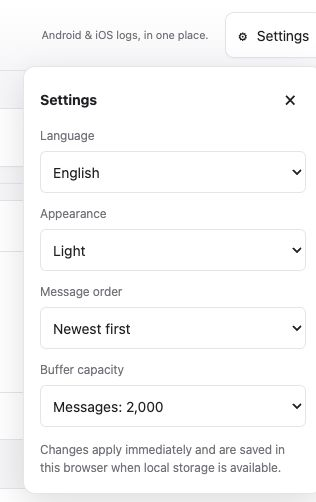
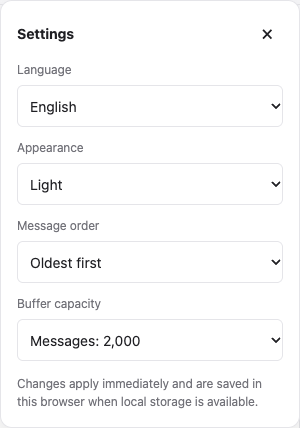
docs: update WebView capture guide and application screenshots
Document Android and iOS inspection setup, combined sources, per-source filtering, timestamps, and troubleshooting. Refresh viewer, details, and settings screenshots and add an iOS WebView console example.

diff --git a/README.md b/README.md
@@ -2,10 +2,10 @@
 
 # Über Device Log
 
-**Android Logcat & iOS syslog, in one place.**
+**Android Logcat, iOS syslog & WebView consoles, in one place.**
 
-A local browser-based **Android Logcat and iOS syslog viewer**, with setup guidance
-for **macOS, Windows and Linux**. Connect a phone, find the message that matters,
+A local browser-based **Android Logcat, iOS syslog and WebView console viewer**,
+with setup guidance for **macOS, Windows and Linux**. Connect a phone, find the message that matters,
 and share the relevant entries as plain text or structured JSON.
 
 [Website](https://pmelch.github.io/uber-device-log/) · [Get started](#get-started) · [Connect a device](#connect-a-device) · [Using the viewer](#using-the-viewer) · [Documentation](#documentation)
@@ -14,7 +14,7 @@ and share the relevant entries as plain text or structured JSON.
 
 </div>
 
-![Über Device Log showing Android messages, severity filters and formatted exceptions](docs/images/log-viewer.png)
+![Über Device Log combining Android Logcat and WebView console messages with independent source filters](docs/images/log-viewer.png)
 
 *Actual app screenshots with fictional demo logs.*
 
@@ -119,18 +119,45 @@ Windows needs compatible Apple mobile-device support. macOS is the primary
 validation environment; Windows/Linux and physical-device capture still need
 validation. No Appium server is required. iOS simulators are not listed.
 
+### Android WebView consoles
+
+Inspectable WebViews appear beneath their Android device with their page title
+and URL. Select one to capture JavaScript console calls and uncaught exceptions,
+or combine it with native Logcat using the source checkboxes above the stream.
+Multiple WebViews can be included from the same device.
+
+Use the Android setup above and keep the app and its WebView open. The app must
+enable WebView debugging with `WebView.setWebContentsDebuggingEnabled(true)`;
+the viewer cannot enable it for you. Refresh the device list if a new WebView
+does not appear. Capture uses ADB and Chrome DevTools Protocol; no separate
+debugging proxy or browser extension is required.
+
+### iPhone and iPad WebView consoles
+
+Inspectable iOS WebViews appear beneath their device with the same selection,
+combined capture and per-source filtering controls as Android WebViews.
+
+Unlock and trust the connected device, keep the app open, and enable Safari's
+**Web Inspector** on the device. The app must expose its WKWebView for inspection
+(`isInspectable = true` on iOS 16.4 and later). The viewer cannot enable inspection
+for an app that has not opted in. Capture uses the existing USB WebInspector
+service; no additional proxy, browser extension or Appium server is required.
+
 ## Using the viewer
 
 ### Find a message
 
-Type in **Filter logs** to search message text and metadata. Use Android's severity
-buttons to narrow the view further. Change **Message order** in **Settings** to show newest entries
-first or last. Scrolling away stops automatic following; **Follow latest** resumes it.
+Type in a source's search field to search message text and metadata. Use Android
+and WebView severity buttons to narrow the view further. Native iOS syslog does
+not provide severity filtering. Change **Message order** in **Settings** to show
+newest entries first or last. Scrolling away stops automatic following;
+**Follow latest** resumes it.
 
 Choose **Fuzzy search** for typo-tolerant matching or **Literal search** for a
 case-insensitive, contiguous phrase in a single message or metadata field.
 Literal search treats punctuation as text, without regular expressions.
-For Android, **Exact Android tag** matches the entire tag with case sensitivity;
+For native Android logs, expand **Advanced filters**. **Exact Android tag** matches
+the entire tag with case sensitivity;
 **Exact Android PID** matches the numeric process ID. Combine these with search
 and severity filters. Invalid PIDs show a validation message and no results.
 **Reset filters** clears search, tag, PID and severity restrictions while keeping
@@ -140,11 +167,26 @@ and Copy/Save use the displayed filtered entries.
 ### Combine device and WebView logs
 
 Select a device or WebView, then enable the desired sources above the stream.
-Each source has independent search and severity controls; native Android logs
-also have exact tag and PID filters. Entries merge by timestamp and show the
+The source checkboxes combine native logs and one or more WebView consoles from
+the selected device. Each source has independent search and severity controls
+(except native iOS syslog); native Android logs also have exact tag and PID
+filters. Entries merge by timestamp and show the
 platform or WebView icon beside their source. A stopped WebView does not stop
 the other sources. Re-enabling a source replaces its previous buffer with the
 new capture, since collectors can replay their history.
+
+Selecting a device or WebView in the device list starts a fresh view with that
+source alone. Use the checkboxes to add other sources. Only the parent device
+is remembered across reloads; WebView page targets are temporary.
+
+WebView console timestamps come from CDP on Android and WebKit on iOS, with host
+receipt time as a fallback. Native iOS syslog uses host receipt time, so merged
+timestamps do not guarantee the exact causal order of device events.
+
+![An iPhone WebView console showing JavaScript messages, warnings and an exception](docs/images/webview-console.png)
+
+WebView capture reads console output. It does not offer JavaScript execution,
+expandable object inspection, a DOM inspector or a network panel.
 
 Exports retain source identity: plain text prefixes each entry with its source
 name, and structured JSON uses schema version 2 with source metadata per entry.
@@ -159,7 +201,7 @@ The card offers **Details**, **Original**, and **JSON** views. Click the info bu
 again or use **×** to close it. Scrolling the list or selecting a row also closes it.
 Explanations describe patterns in the message; they are not definitive diagnoses.
 
-![Message details showing the file path, exception, error code and reported reason for a failed read](docs/images/message-details.png)
+![Message details showing WebView exception metadata, interpretation and tabs for the original text and JSON](docs/images/message-details.png)
 
 ### Copy or save
 
@@ -178,7 +220,7 @@ Exports preserve whole entries, metadata and multiline messages in display order
 
 ### Choose your language
 
-**English · Español · Deutsch · Français · Italiano · 简体中文**
+**English · Español · Deutsch · Français · Italiano · 日本語 · 简体中文**
 
 Open **Settings** in the header to choose your language, appearance, message order,
 and buffer capacity. All four preferences are saved locally in this browser;
@@ -226,6 +268,14 @@ Bun normally uses `~/.bun/bin`. Alternatively, launch with `npx uber-device-log`
 The legacy relay does not guarantee parity with unified logging. See the
 [capture limits](docs/technical.md#behavior-and-limits) before relying on completeness.
 
+**A WebView is missing or its console stops**
+
+Keep the app and page open, confirm that the app has enabled inspection, and
+refresh the device list. Android also needs ADB authorization; iOS needs trust,
+pairing and Safari Web Inspector. A page that closes or is replaced can disappear
+from discovery. Select its current target to start a fresh capture. Other enabled
+sources continue capturing when one WebView stops.
+
 </details>
 
 ## Documentation
@@ -246,16 +296,3 @@ private information before sharing log excerpts.
 ## License
 
 [Apache License 2.0](LICENSE).
-
-### iPhone and iPad WebView consoles
-
-Inspectable iOS WebViews appear beneath their device, just like Android WebViews.
-Select a WebView or include it alongside native device logs. Each WebView has its
-own search and severity filters. Console timestamps come from WebKit; native iOS
-syslog timestamps remain host receipt times.
-
-Unlock and trust the connected device, keep the app open, and enable Safari's
-Web Inspector on the device. The app must expose its WKWebView for inspection
-([`isInspectable = true`](https://webkit.org/blog/13936/enabling-the-inspection-of-web-content-in-apps/) on iOS 16.4 and later). The viewer cannot enable this for
-an app that has not opted in. Capture uses the existing USB WebInspector service;
-no additional proxy, browser extension or Appium server is required.
